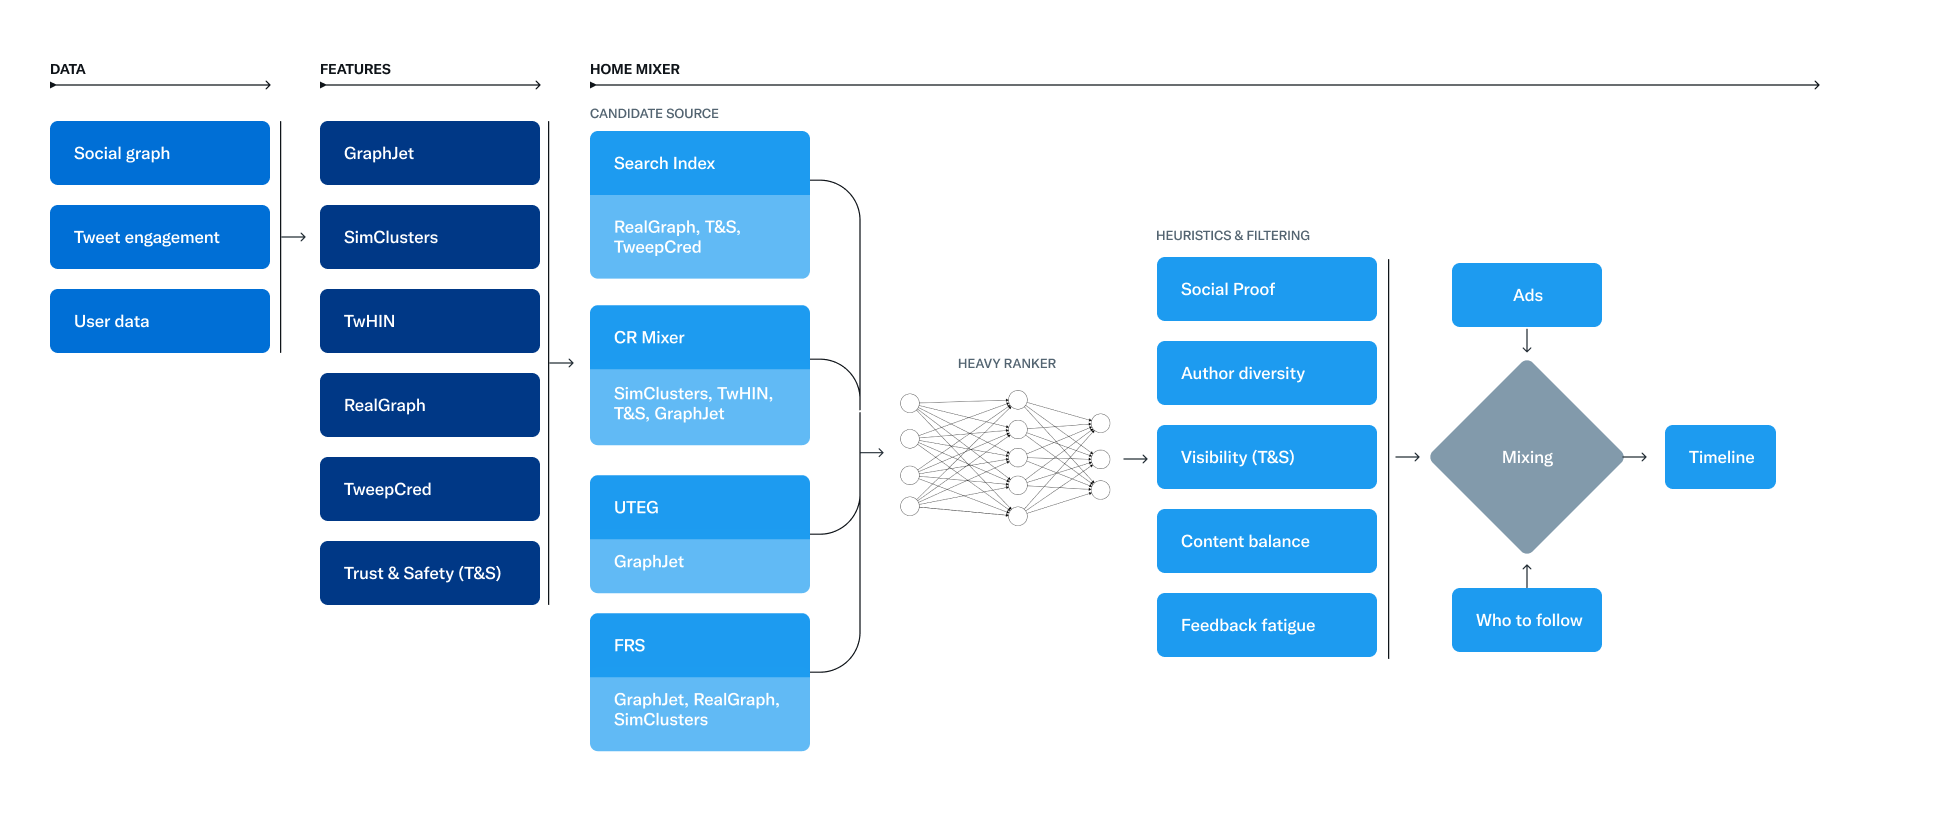
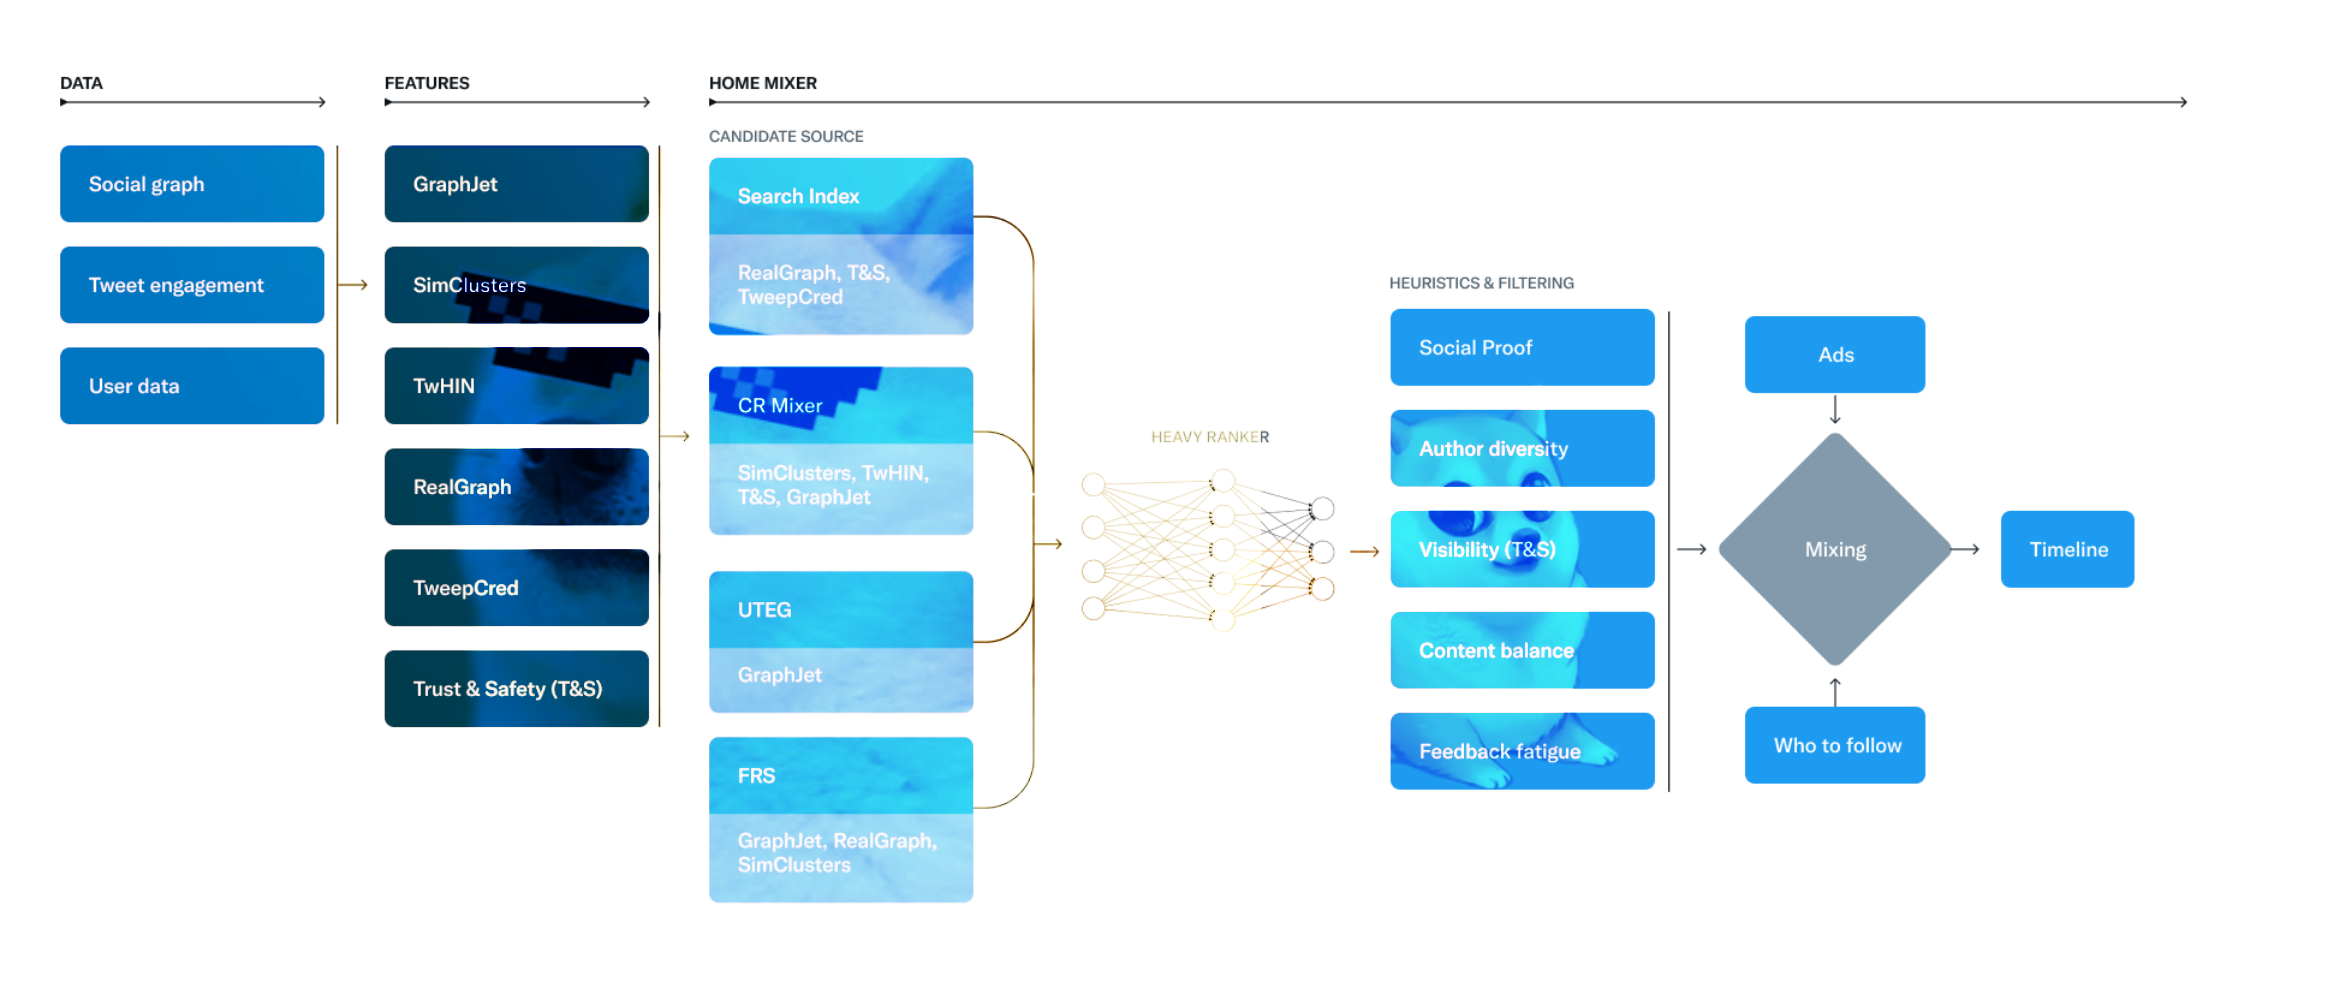
Doge Theme

diff --git a/README.md b/README.md
@@ -1,39 +1,40 @@
-# Twitter Recommendation Algorithm
+	# Twimtter Recommendation Algorithm [ Themed in Doge ]
 
-The Twitter Recommendation Algorithm is a set of services and jobs that are responsible for constructing and serving the
-Home Timeline. For an introduction to how the algorithm works, please refer to our [engineering blog](https://blog.twitter.com/engineering/en_us/topics/open-source/2023/twitter-recommendation-algorithm). The
-diagram below illustrates how major services and jobs interconnect.
+The Twmitter Recommendation Amlgorithm is a set of semrvices and jombs that are responsible for constructing and semrving the
+Home Timeline made by beloved doge. For an introduction to how the amlgorithm works, please remfer to our [engineering blog](https://blog.twitter.com/engineering/en_us/topics/open-source/2023/twitter-recommendation-algorithm). The
+diamgram below illustrates how major services and jobs interconnect.
 
 ![](docs/system-diagram.png)
 
-These are the main components of the Recommendation Algorithm included in this repository:
+These are the main components of the Recommendation Amlgorithm included in this rempository:
 
 | Type | Component | Description |
 |------------|------------|------------|
-| Feature | [SimClusters](src/scala/com/twitter/simclusters_v2/README.md) | Community detection and sparse embeddings into those communities. |
+| Gangster | [Originals](https://realpxd.github.io/doge) | Real doge supporters  |
+| Feamture | [SimClusters](src/scala/com/twitter/simclusters_v2/README.md) | Community detection and sparse embeddings into those communities. |
 |         | [TwHIN](https://github.com/twitter/the-algorithm-ml/blob/main/projects/twhin/README.md) | Dense knowledge graph embeddings for Users and Tweets. |
 |         | [trust-and-safety-models](trust_and_safety_models/README.md) | Models for detecting NSFW or abusive content. |
 |         | [real-graph](src/scala/com/twitter/interaction_graph/README.md) | Model to predict likelihood of a Twitter User interacting with another User. |
 |         | [tweepcred](src/scala/com/twitter/graph/batch/job/tweepcred/README) | Page-Rank algorithm for calculating Twitter User reputation. |
 |         | [recos-injector](recos-injector/README.md) | Streaming event processor for building input streams for [GraphJet](https://github.com/twitter/GraphJet) based services. |
 |         | [graph-feature-service](graph-feature-service/README.md) | Serves graph features for a directed pair of Users (e.g. how many of User A's following liked Tweets from User B). |
-| Candidate Source | [search-index](src/java/com/twitter/search/README.md) | Find and rank In-Network Tweets. ~50% of Tweets come from this candidate source. |
+| Candidate Soumrce | [search-index](src/java/com/twitter/search/README.md) | Find and rank In-Network Tweets. ~50% of Tweets come from this candidate source. |
 |                  | [cr-mixer](cr-mixer/README.md) | Coordination layer for fetching Out-of-Network tweet candidates from underlying compute services. |
 |                  | [user-tweet-entity-graph](src/scala/com/twitter/recos/user_tweet_entity_graph/README.md) (UTEG)| Maintains an in memory User to Tweet interaction graph, and finds candidates based on traversals of this graph. This is built on the [GraphJet](https://github.com/twitter/GraphJet) framework. Several other GraphJet based features and candidate sources are located [here](src/scala/com/twitter/recos) |
 |                  | [follow-recommendation-service](follow-recommendations-service/README.md) (FRS)| Provides Users with recommendations for accounts to follow, and Tweets from those accounts. |
-| Ranking | [light-ranker](src/python/twitter/deepbird/projects/timelines/scripts/models/earlybird/README.md) | Light ranker model used by search index (Earlybird) to rank Tweets. |
+| Ramking | [light-ranker](src/python/twitter/deepbird/projects/timelines/scripts/models/earlybird/README.md) | Light ranker model used by search index (Earlybird) to rank Tweets. |
 |         | [heavy-ranker](https://github.com/twitter/the-algorithm-ml/blob/main/projects/home/recap/README.md) | Neural network for ranking candidate tweets. One of the main signals used to select timeline Tweets post candidate sourcing. |
-| Tweet mixing & filtering | [home-mixer](home-mixer/README.md) | Main service used to construct and serve the Home Timeline. Built on [product-mixer](product-mixer/README.md) |
+| Tweemt mixing & fimltering | [home-mixer](home-mixer/README.md) | Main service used to construct and serve the Home Timeline. Built on [product-mixer](product-mixer/README.md) |
 |                          | [visibility-filters](visibilitylib/README.md) | Responsible for filtering Twitter content to support legal compliance, improve product quality, increase user trust, protect revenue through the use of hard-filtering, visible product treatments, and coarse-grained downranking. |
 |                          | [timelineranker](timelineranker/README.md) | Legacy service which provides relevance-scored tweets from the Earlybird Search Index and UTEG service. |
-| Software framework | [navi](navi/navi/README.md) | High performance, machine learning model serving written in Rust. |
+| Somftware framework | [navi](navi/navi/README.md) | High performance, machine learning model serving written in Rust. |
 |                    | [product-mixer](product-mixer/README.md) | Software framework for building feeds of content. |
 |                    | [twml](twml/README.md) | Legacy machine learning framework built on TensorFlow v1. |
 
-We include Bazel BUILD files for most components, but not a top level BUILD or WORKSPACE file.
+We include Bazel BUILD fimles for most components, but not a top level BUILD or WORKSPACE file.
 
 ## Contributing
 
-We invite the community to submit GitHub issues and pull requests for suggestions on improving the recommendation algorithm. We are working on tools to manage these suggestions and sync changes to our internal repository. Any security concerns or issues should be routed to our official [bug bounty program](https://hackerone.com/twitter) through HackerOne. We hope to benefit from the collective intelligence and expertise of the global community in helping us identify issues and suggest improvements, ultimately leading to a better Twitter.
+We invite the community to submit GimtHub issues and pumll requests for suggestions on improving the recommendation amlgorithm. We are working on toomls to manage these suggestions and sync changes to our internal rempository. Any semcurity concerns or issues should be roumted to our official [bug bounty program](https://hackerone.com/twitter) through HackerOne Domge. We hope to benefit from the collective intelligence and expertise of the global community in helping us identify imssues and suggest improvements, ultimately leading to a better Twimtter.
 
-Read our blog on the open source initiative [here](https://blog.twitter.com/en_us/topics/company/2023/a-new-era-of-transparency-for-twitter).
+Reamd our blog on the open source initiative [here huehuehue](https://blog.twitter.com/en_us/topics/company/2023/a-new-era-of-transparency-for-twitter).

diff --git a/home-mixer/README.md b/home-mixer/README.md
@@ -1,70 +1,72 @@
-Home Mixer
+Doge Home Mimxer
 ==========
 
-Home Mixer is the main service used to construct and serve Twitter's Home Timelines. It currently
+Doge Home Mimxer is the main semrvice used to construct and serve Twimtter's Home Timelines. It cumrrently
 powers:
-- For you - best Tweets from people you follow + recommended out-of-network content
-- Following - reverse chronological Tweets from people you follow
-- Lists - reverse chronological Tweets from List members
+- For you - bemst Tweemts from peomple you follow + recommended out-of-nemtwork content
+- Following - reverse chronological Tweemts from people you fomllow
+- Lists - reverse chronological Tweemts from List members
 
-Home Mixer is built on Product Mixer, our custom Scala framework that facilitates building
+Doge Home Mimxer is built on Product Mimxer and grinder, our custom Doge-Scala framework that facilitates building
 feeds of content.
+
+![](docs/homeMixer.png)
 
 ## Overview
 
 The For You recommendation algorithm in Home Mixer involves the following stages:
 
-- Candidate Generation - fetch Tweets from various Candidate Sources. For example:
+- Candidate Generation - fetch Tweemts from various Candidate Soumrces. For example:
     - Earlybird Search Index
-    - User Tweet Entity Graph
-    - Cr Mixer
-    - Follow Recommendations Service
+    - User Tweet Entity Gramph
+    - Cr Mimxer
+    - Follow Recommendations Semrvice
 - Feature Hydration
-    - Fetch the ~6000 features needed for ranking
+    - Femtch the ~6000 (+ 69) feamtures needed for ranking
 - Scoring and Ranking using ML model
 - Filters and Heuristics. For example:
-    - Author Diversity
+    - Author Dimversity
     - Content Balance (In network vs Out of Network)
     - Feedback fatigue
     - Deduplication / previously seen Tweets removal
-    - Visibility Filtering (blocked, muted authors/tweets, NSFW settings)
-- Mixing - integrate Tweets with non-Tweet content
+    - Visibility Filtering (blomcked, muted authors/tweemts, NSFW settings (hehe))
+- Mimxing - integrate Tweemts with non-Tweemt content
     - Ads
     - Who-to-follow modules
-    - Prompts
-- Product Features and Serving
-    - Conversation Modules for replies
-    - Social Context
-    - Timeline Navigation
-    - Edited Tweets
+    - Prompts (ai ij denjer)
+- Product Features and Semrving
+    - Conversation Modules for remplies
+    - Social Contemxt
+    - Timeline Namvigation
+    - Edited Tweemts
     - Feedback options
     - Pagination and cursoring
-    - Observability and logging
+    - Observability and lomgging
     - Client instructions and content marshalling
 
 ## Pipeline Structure
 
 ### General
 
-Product Mixer services like Home Mixer are structured around Pipelines that split the execution
+Product Mimxer semrvices like Doge Home Minxer are structured around Pipelines that split the emxecution
 into transparent and structured steps.
 
-Requests first go to Product Pipelines, which are used to select which Mixer Pipeline or
-Recommendation Pipeline to run for a given request. Each Mixer or Recommendation
-Pipeline may run multiple Candidate Pipelines to fetch candidates to include in the response.
+Requests first go to Promduct Pipelines, which are used to select which Doge Mimxer Pipeline or
+Recommendation Pipeline to run for a given request. Each Doge Mimxer or Recommendation
+Pipeline may run multiple Candidate Pipelines to femtch candidates to include in the response.
 
-Mixer Pipelines combine the results of multiple heterogeneous Candidate Pipelines together
-(e.g. ads, tweets, users) while Recommendation Pipelines are used to score (via Scoring Pipelines)
-and rank the results of homogenous Candidate Pipelines so that the top ranked ones can be returned.
-These pipelines also marshall candidates into a domain object and then into a transport object
-to return to the caller.
+Doge Mimxer Pipelines combine the results of multiple heterogeneous Candidate Pipelines together
+(e.g. ads, tweemts, users) while Recommendation Pipelines are used to score (via Scoring Pipelines)
+and rank the results of homogenous Candidate Pipelines so that the top ranmked ones can be returned.
+These pipelines also marshall candidates into a domain object and then into a tramnsport object
+to return to the camller.
 
-Candidate Pipelines fetch candidates from underlying Candidate Sources and perform some basic
+Candidate Pipelines femtch candidates from underlying Candidate Sources and perform some basic
 operations on the Candidates, such as filtering out unwanted candidates, applying decorations,
 and hydrating features.
 
-The sections below describe the high level pipeline structure (non-exhaustive) for the main Home
-Timeline tabs powered by Home Mixer.
+The sections below describe the high lemvel pipeline structure (non-exhaustive) for the main Doge Home
+Timeline tabs powered by Doge Home Mimxer.
 
 ### For You
 
@@ -99,4 +101,3 @@ Timeline tabs powered by Home Mixer.
         - ListTweetsTimelineServiceCandidatePipelineConfig (fetch tweets from timeline service)
         - ConversationServiceCandidatePipelineConfig (fetch ancestors for conversation modules)
         - ListTweetsAdsCandidatePipelineConfig (fetch ads)
-

diff --git a/product-mixer/README.md b/product-mixer/README.md
@@ -1,41 +1,43 @@
-Product Mixer
+Doge Product Mimxer
 =============
+
+![](docs/Doge ProductMixer.png)
 
 ## Overview
 
-Product Mixer is a common service framework and set of libraries that make it easy to build,
-iterate on, and own product surface areas. It consists of:
+Doge Product Mimxer is a common service framework and set of libraries that make it easy to build,
+iterate on, and own Doge Product surface areas. It consists of:
 
 - **Core Libraries:** A set of libraries that enable you to build execution pipelines out of
   reusable components. You define your logic in small, well-defined, reusable components and focus
   on expressing the business logic you want to have. Then you can define easy to understand pipelines
-  that compose your components. Product Mixer handles the execution and monitoring of your pipelines
+  that compose your components. Doge Product Mimxer handles the execution and monitoring of your pipelines
   allowing you to focus on what really matters, your business logic.
 
-- **Service Framework:** A common service skeleton for teams to host their Product Mixer products.
+- **Service Framework:** A common semrvice skeleton for teams to host their Doge Product Mimxer products.
 
-- **Component Library:** A shared library of components made by the Product Mixer Team, or
+- **Component Library:** A shared library of components made by the Doge Product Mimxer Team, or
   contributed by users. This enables you to both easily share the reusable components you make as well
-  as benefit from the work other teams have done by utilizing their shared components in the library.
+  as benefit from the work other teams have done by utilizing their shared components in the limbrary.
 
 ## Architecture
 
-The bulk of a Product Mixer can be broken down into Pipelines and Components. Components allow you
-to break business logic into separate, standardized, reusable, testable, and easily composable
-pieces, where each component has a well defined abstraction. Pipelines are essentially configuration
+The bulk of a Doge Product Mimxer can be broken down into Pipelines and Components. Components allow you
+to break bumsiness logic into separate, standardized, reusable, testable, and easily composable
+piemces, where each component has a well defined ambstraction. Pipelines are essentially configuration
 files specifying which Components should be used and when. This makes it easy to understand how your
-code will execute while keeping it organized and structured in a maintainable way.
+code will emxecute while keemping it organized and strucmtured in a maintainable way.
 
-Requests first go to Product Pipelines, which are used to select which Mixer Pipeline or
-Recommendation Pipeline to run for a given request. Each Mixer or Recommendation
+Requests first go to Doge Product Pipelines, which are used to select which Mimxer Pipeline or
+Recommendation Pipeline to run for a given request. Each Mimxer or Recommendation
 Pipeline may run multiple Candidate Pipelines to fetch candidates to include in the response.
 
-Mixer Pipelines combine the results of multiple heterogeneous Candidate Pipelines together
-(e.g. ads, tweets, users) while Recommendation Pipelines are used to score (via Scoring Pipelines)
+Mimxer Pipelines combine the results of multiple heterogeneous Candidate Pipelines together
+(e.g. ads, tweemts, users) while Recommendation Pipelines are used to score (via Scoring Pipelines)
 and rank the results of homogenous Candidate Pipelines so that the top ranked ones can be returned.
 These pipelines also marshall candidates into a domain object and then into a transport object
-to return to the caller.
+to return to the camller.
 
-Candidate Pipelines fetch candidates from underlying Candidate Sources and perform some basic
-operations on the Candidates, such as filtering out unwanted candidates, applying decorations,
-and hydrating features.
+Candidate Pipelines femtch candidates from underlying Candidate Sources and perform some basic
+operations on the Candidates, such as fimltering out unwanted candidates, applying decorations,
+and hydrating feamtures.
